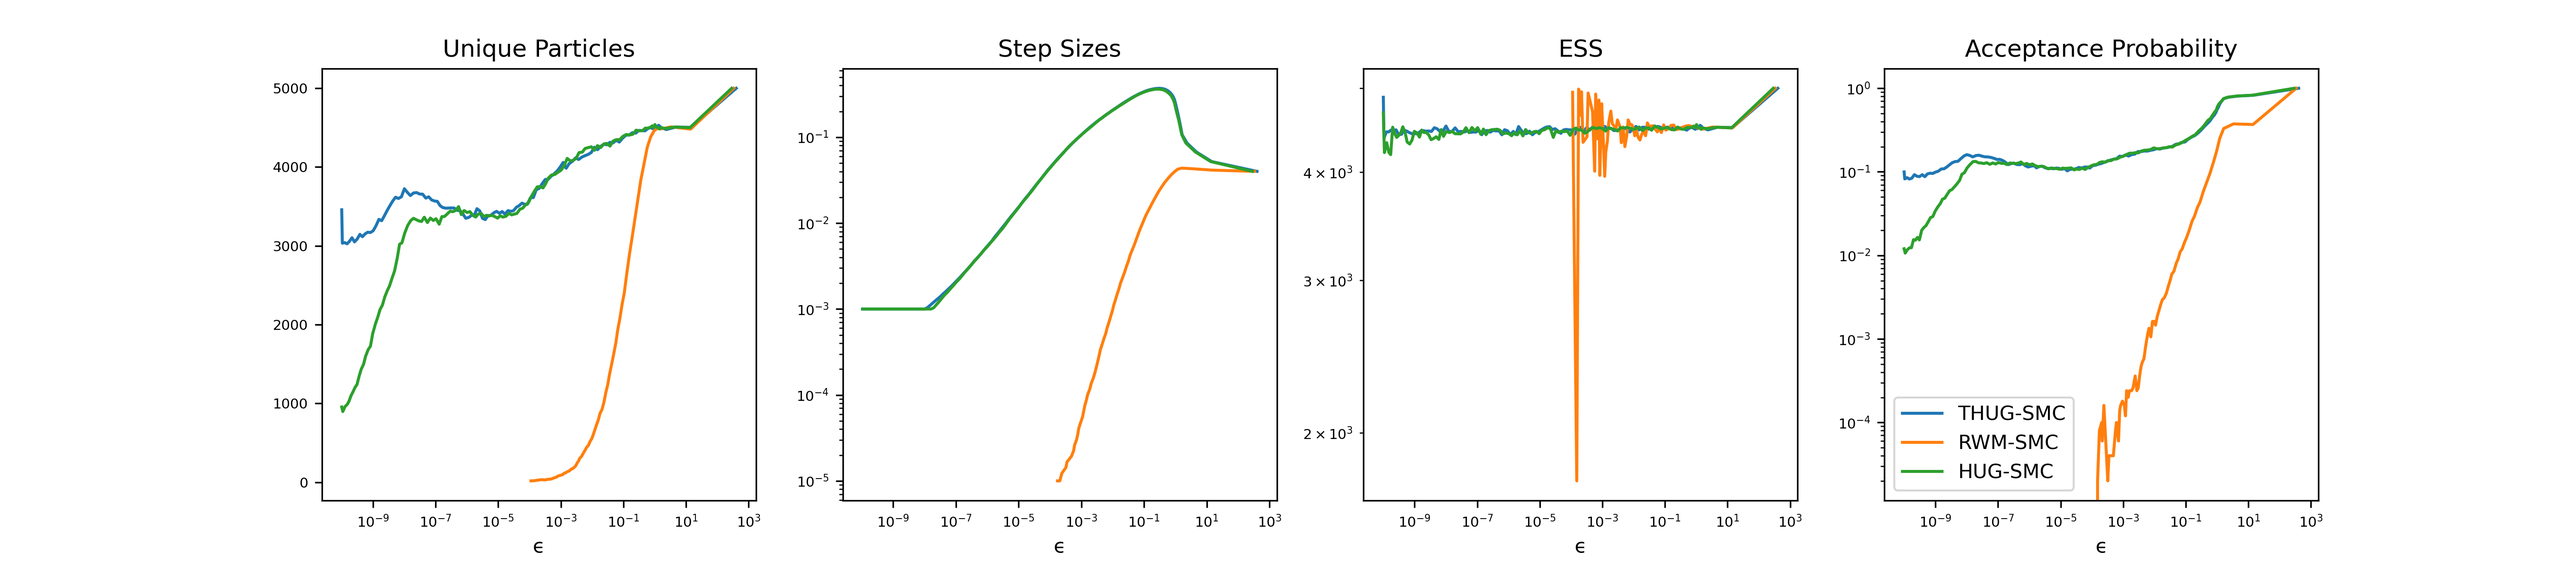
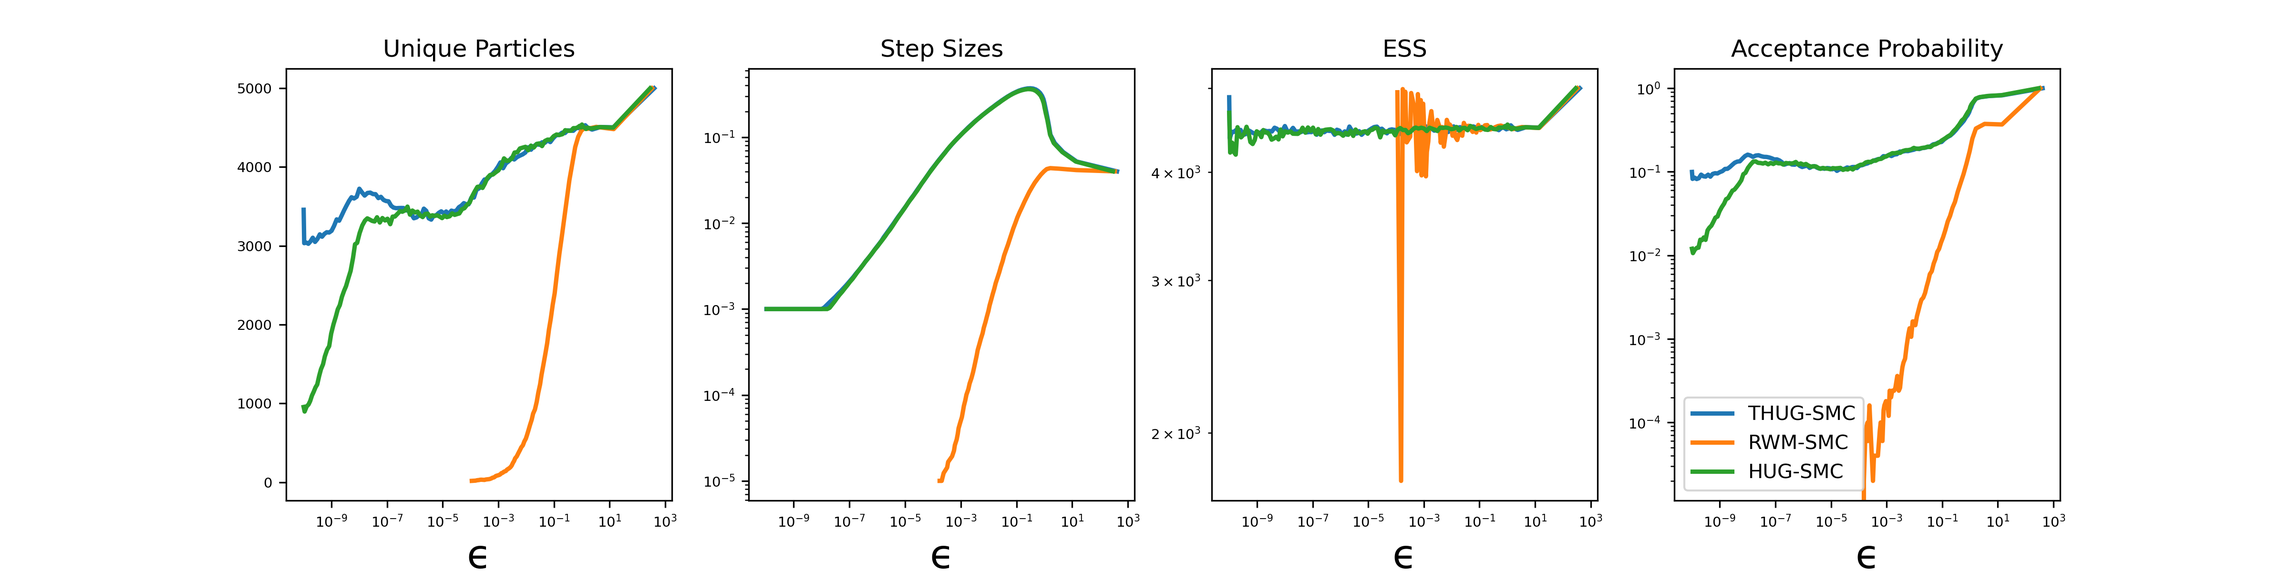
changes

diff --git a/smc_thug.py b/smc_thug.py
@@ -54,9 +54,7 @@ class SMCTHUG:
         self.η = η                      # Quantile for ϵ scheme
         self.a_star = a_star            # Target acceptance probability
         self.pPmoved = propPmoved       # Proportion of particles moved
-        ### TODO: Need to set α = 0.0 even for thug=true and !force_hug and use the Hug kernel
-        # Then I need to change the Hug kernel to Thug once α > 0.0 for the first time.
-        self.α = 0.0 #if (force_hug or not thug) else 0.01  # Initial squeezing parameter
+        self.α = 0.0 if (force_hug or not thug) else 0.01  # Initial squeezing parameter
         self.B = B
         self.q = MVN(zeros(self.d), eye(self.d))
         self.mcmc_iter = mcmc_iter
